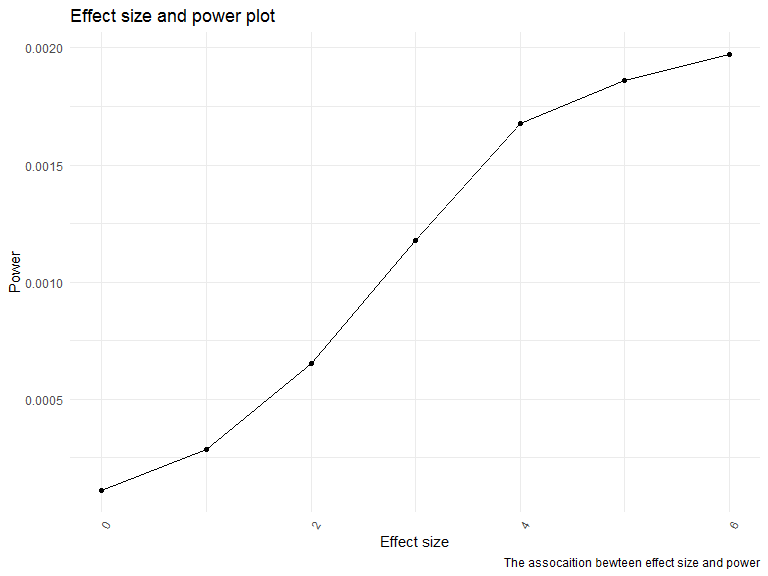
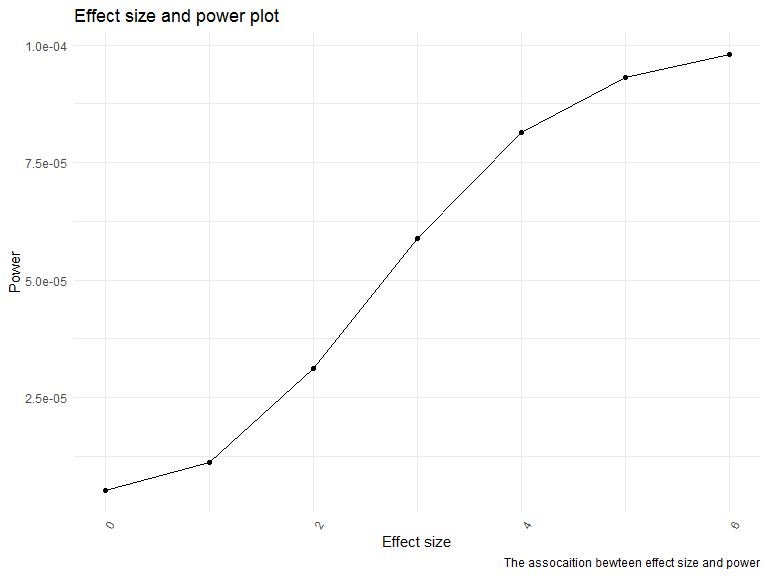
rerun 1000 times and knit

diff --git a/p8105_hw5_jf3286.md b/p8105_hw5_jf3286.md
@@ -5,7 +5,7 @@ Jingyu Fu
 
 # Problem 1
 
-read in the data
+Read in the data
 
 ``` r
 library(tidyverse)
@@ -373,7 +373,7 @@ sim_regression = function(n = 30, beta0 = 2, beta1 = 0) {
 n_list = tibble(
   beta_n = c(0,1,2,3,4,5,6)) %>% 
   mutate(
-   value = map(.x = beta_n, ~rerun(500, sim_regression( beta1 =.x))))
+   value = map(.x = beta_n, ~rerun(10000, sim_regression( beta1 =.x))))
    
 
  
